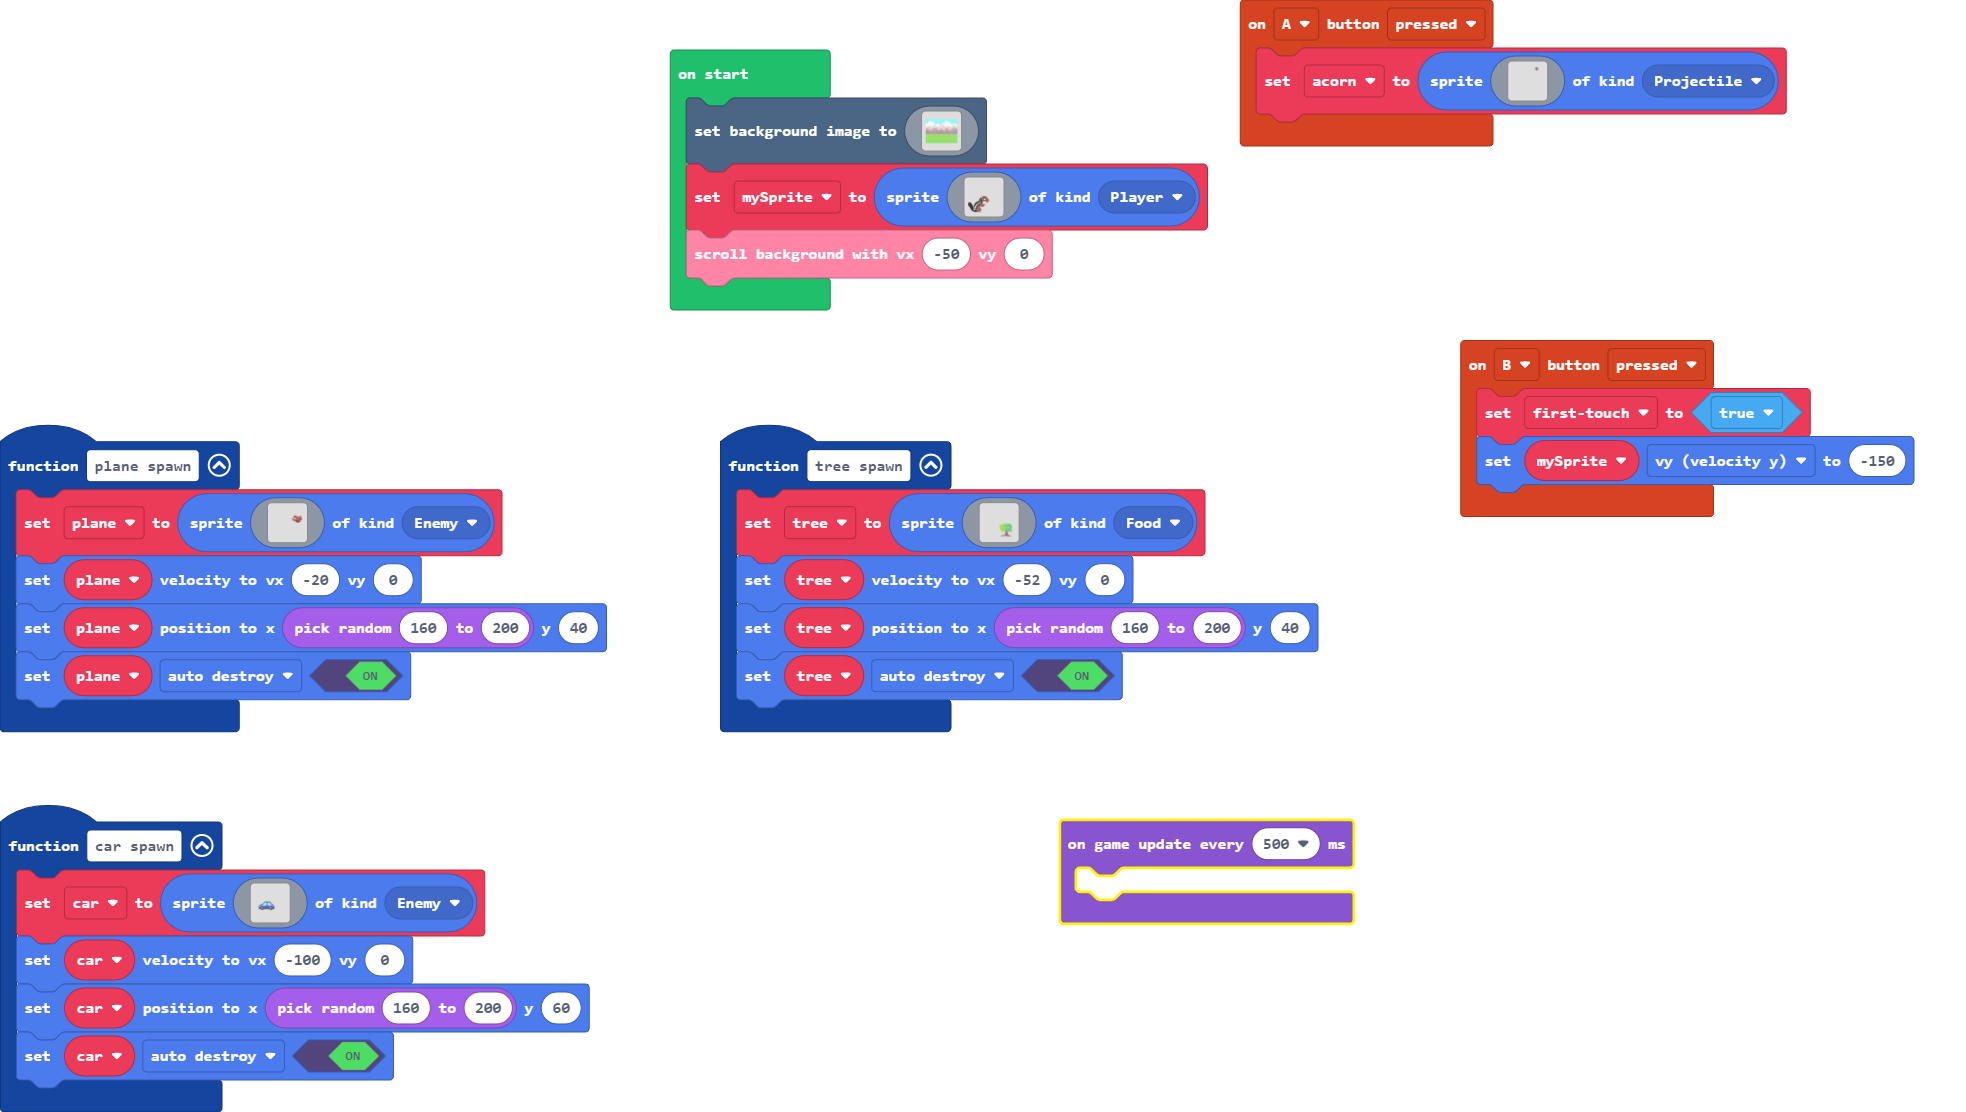
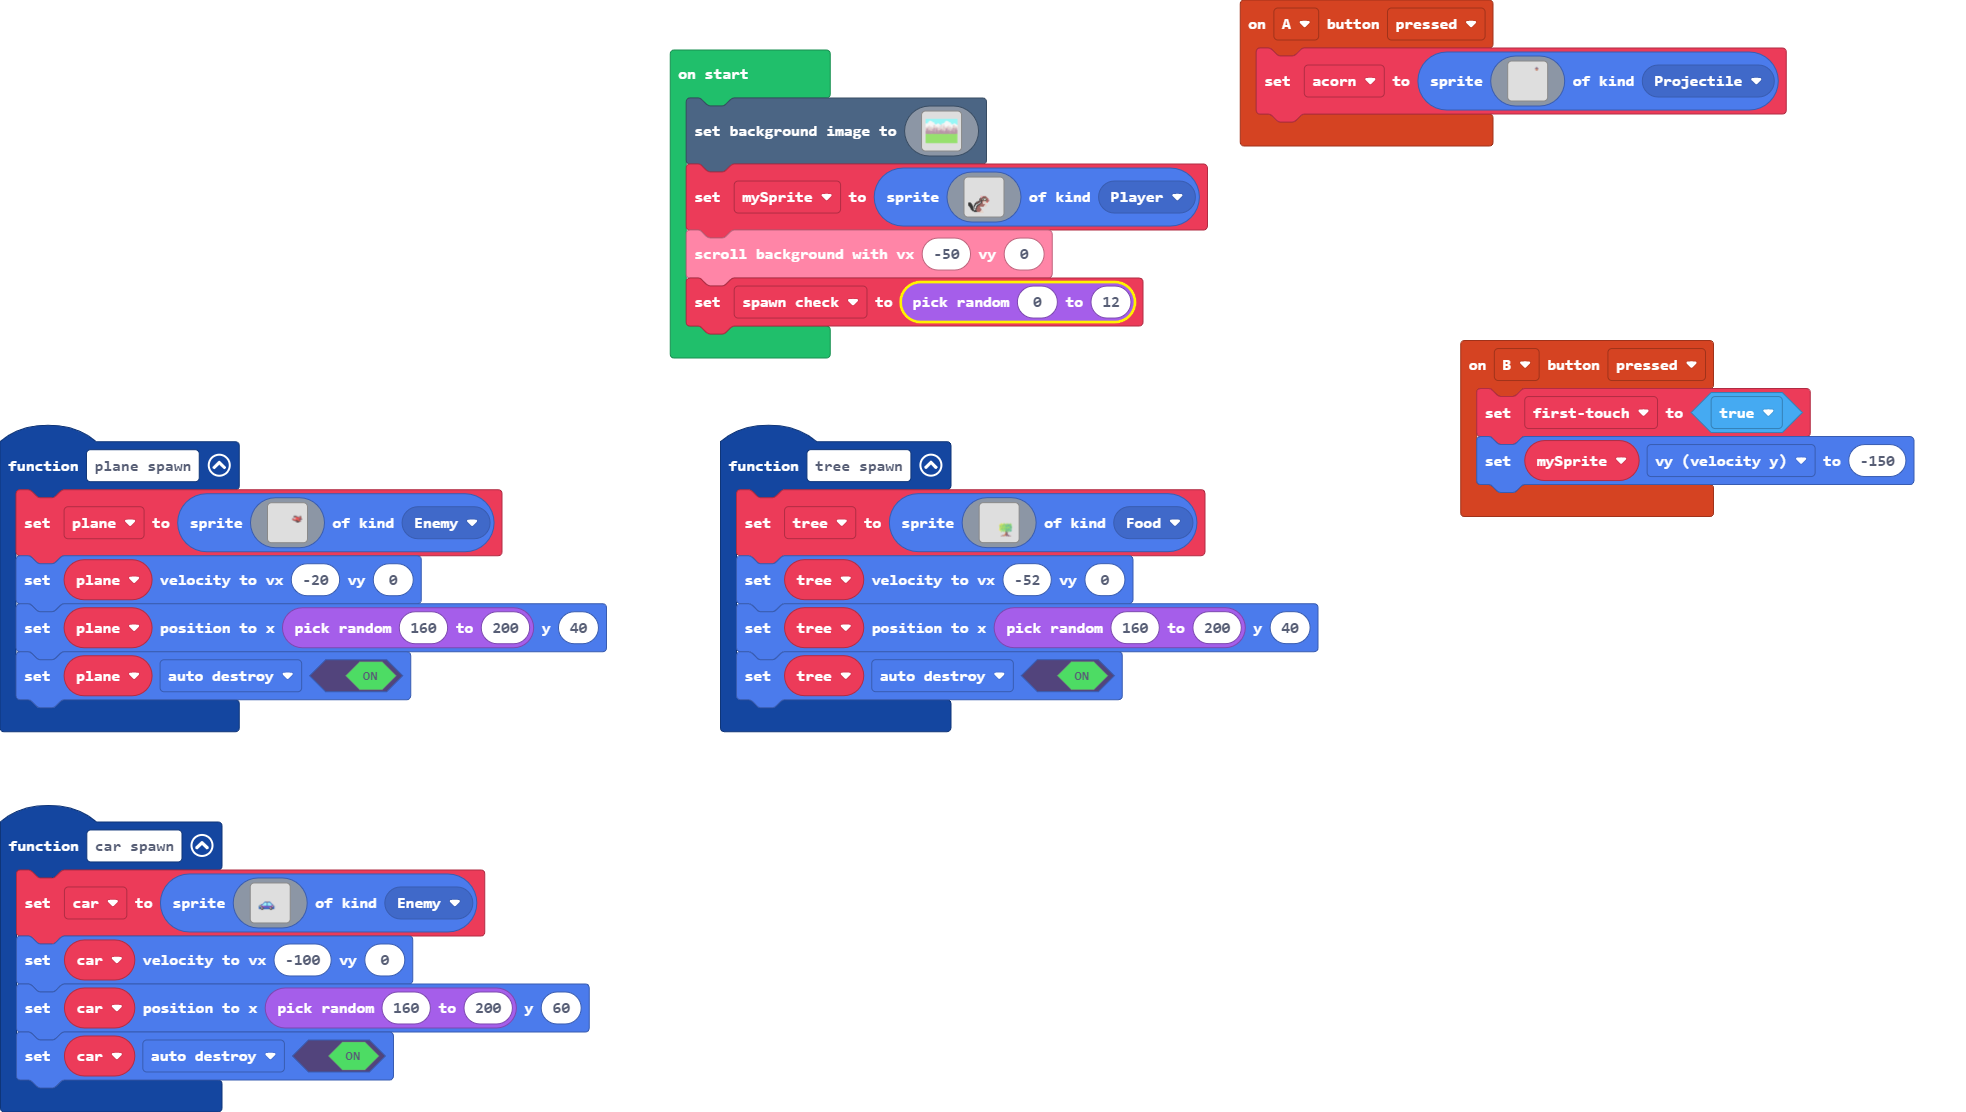
Update pxt.json, main.blocks, main.ts, tilemap.g.jres, tilemap.g.ts

Changed region(s): [[0.5275, 0.7338, 0.7136, 0.8561], [0.3413, 0.2446, 0.5895, 0.3363]]

diff --git a/tilemap.g.ts b/tilemap.g.ts
@@ -1,0 +1,14 @@
+// Auto-generated code. Do not edit.
+namespace myTiles {
+    //% fixedInstance jres blockIdentity=images._tile
+    export const transparency16 = image.ofBuffer(hex``);
+
+    helpers._registerFactory("tile", function(name: string) {
+        switch(helpers.stringTrim(name)) {
+            case "transparency16":return transparency16;
+        }
+        return null;
+    })
+
+}
+// Auto-generated code. Do not edit.

diff --git a/main.ts b/main.ts
@@ -396,6 +396,4 @@ scene.setBackgroundImage(img`
     `)
 mySprite = sprites.create(assets.image`Squirrel`, SpriteKind.Player)
 scroller.scrollBackgroundWithSpeed(-50, 0)
-game.onUpdateInterval(500, function () {
-	
-})
+let spawn_check = randint(0, 12)
